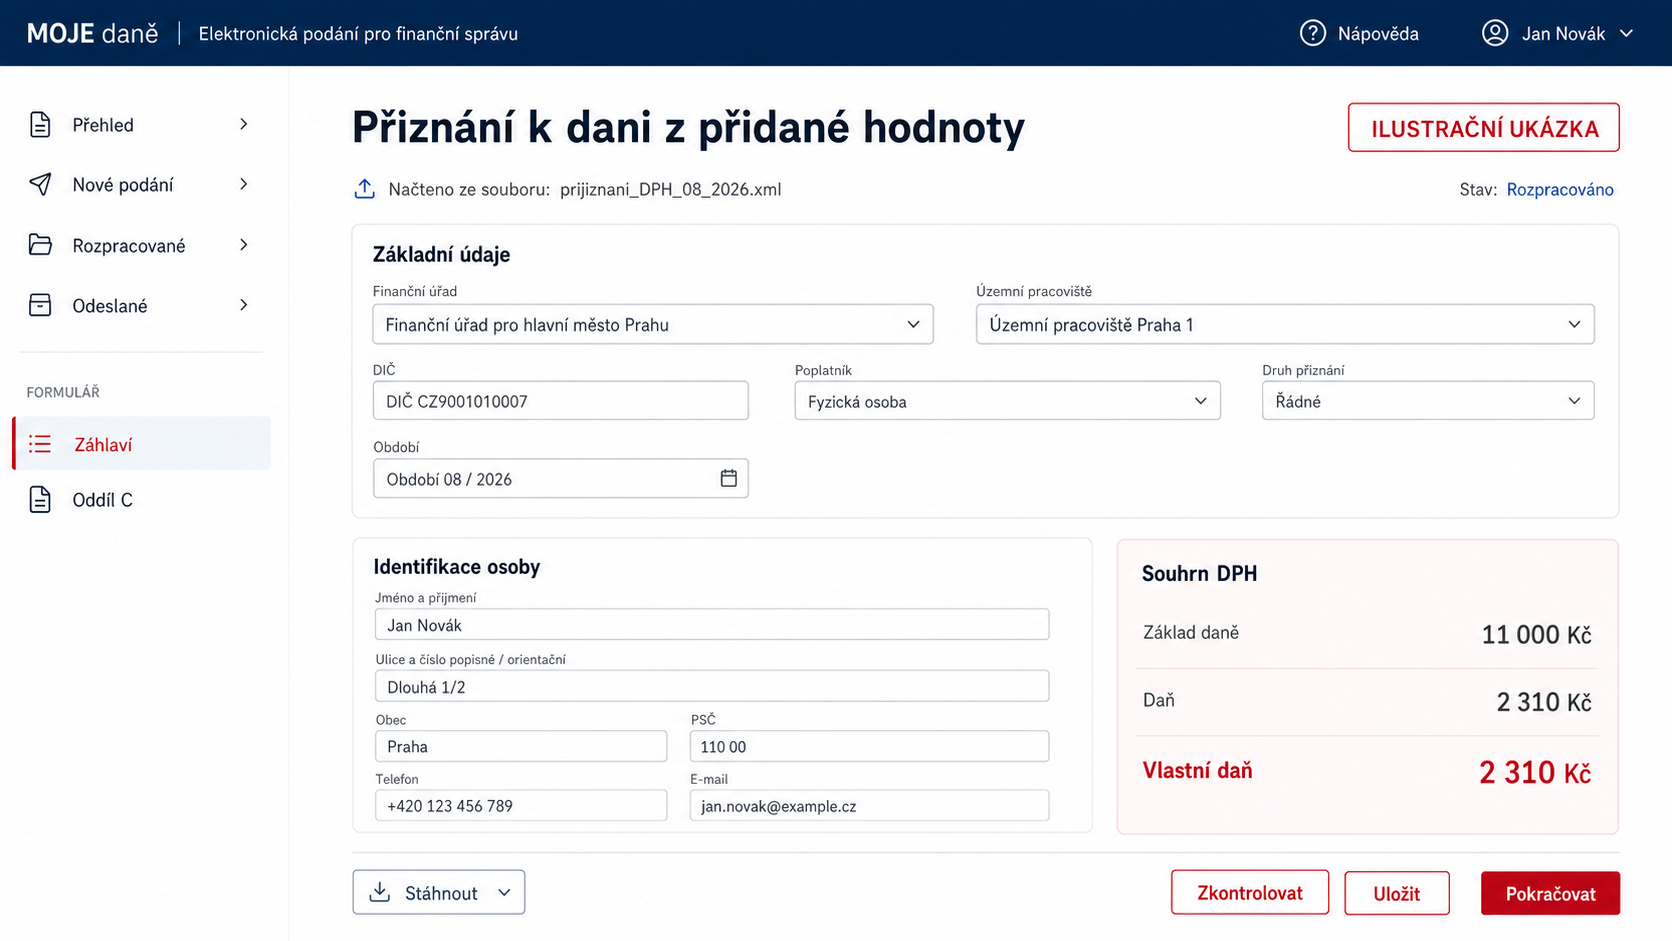
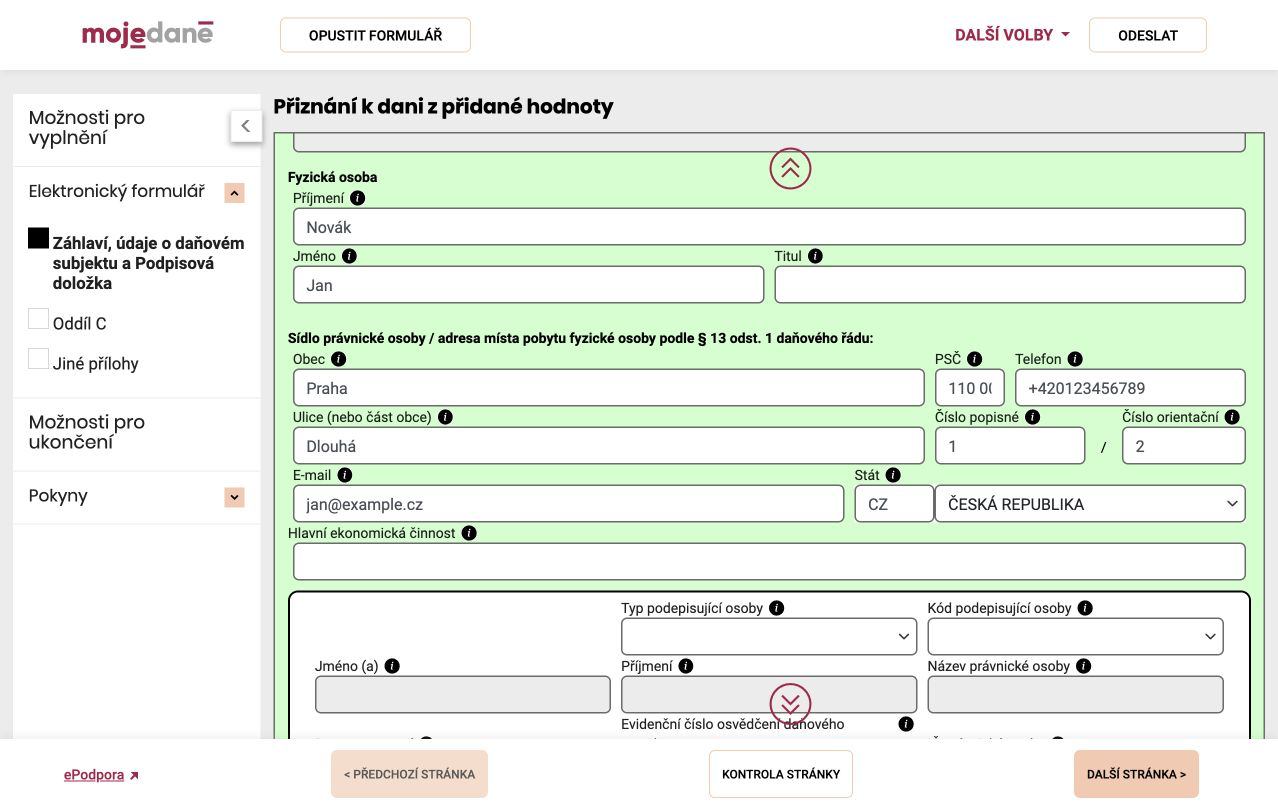
docs: add real MOJE dane screenshots

diff --git a/README.md b/README.md
@@ -54,13 +54,15 @@ odliší a před uložením je znovu zkontroluje.
 
 ### Výsledek po načtení do MOJE daně
 
-Následující dvě obrazovky jsou ilustrační vizualizace podle syntetických XML,
-která byla skutečně načtena do MOJE daně. Nejde o kopie ani součást oficiálního
-portálu; proto jsou přímo v obraze označené jako ilustrační ukázka.
+Následující obrazovky jsou skutečné screenshoty portálu MOJE daně po ručním
+načtení testovacích XML se smyšleným plátcem Janem Novákem. Nejde o skutečné
+daňové podání a žádný z formulářů nebyl odeslán.
 
-![Ilustrační ukázka přiznání k DPH načteného v MOJE daně](docs/images/moje-dane-dph.png)
+![Identifikační údaje syntetického plátce ve formuláři přiznání k DPH na portálu MOJE daně](docs/images/moje-dane-dph.png)
 
-![Ilustrační ukázka kontrolního hlášení načteného v MOJE daně](docs/images/moje-dane-kh.png)
+![Řádek 1 přiznání k DPH načtený ze syntetického XML na portálu MOJE daně](docs/images/moje-dane-dph-radky.png)
+
+![Oddíl A.4 kontrolního hlášení načtený ze syntetického XML na portálu MOJE daně](docs/images/moje-dane-kh.png)
 
 ## Použití
 
